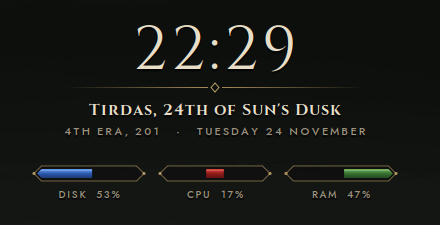
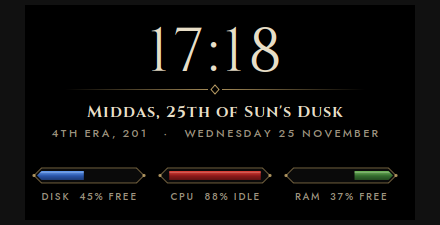
Invert HUD bars: full = free disk, idle CPU, free RAM
Bars now drain under load like Magicka/Health/Stamina in the game; labels show FREE/IDLE.

diff --git a/README.md b/README.md
@@ -1,12 +1,12 @@
 # conky-skyrim-hud
 
-A Skyrim-style HUD widget for [conky](https://github.com/brndnmtthws/conky): big Cinzel clock, the date in the Tamrielic calendar, and Magicka / Health / Stamina bars for disk, CPU and RAM.
+A Skyrim-style HUD widget for [conky](https://github.com/brndnmtthws/conky): big Cinzel clock, the date in the Tamrielic calendar, and Magicka / Health / Stamina bars that drain as your disk, CPU and RAM fill up.
 
 ![screenshot](screenshot.png)
 
 - **Time** in Cinzel with a soft shadow and an ornamental divider
 - **Tamriel date**: *Tirdas, 24th of Sun's Dusk*, *4th Era 201*, plus the real date
-- **Bars**: Magicka = disk used, Health = CPU, Stamina = RAM
+- **Bars**: Magicka = free disk, Health = idle CPU, Stamina = free RAM. Full bars mean a healthy system; they drain under load, like in the game.
 - Drawn entirely with Lua + Cairo; no images. Updates every 2 s.
 
 ## Install
